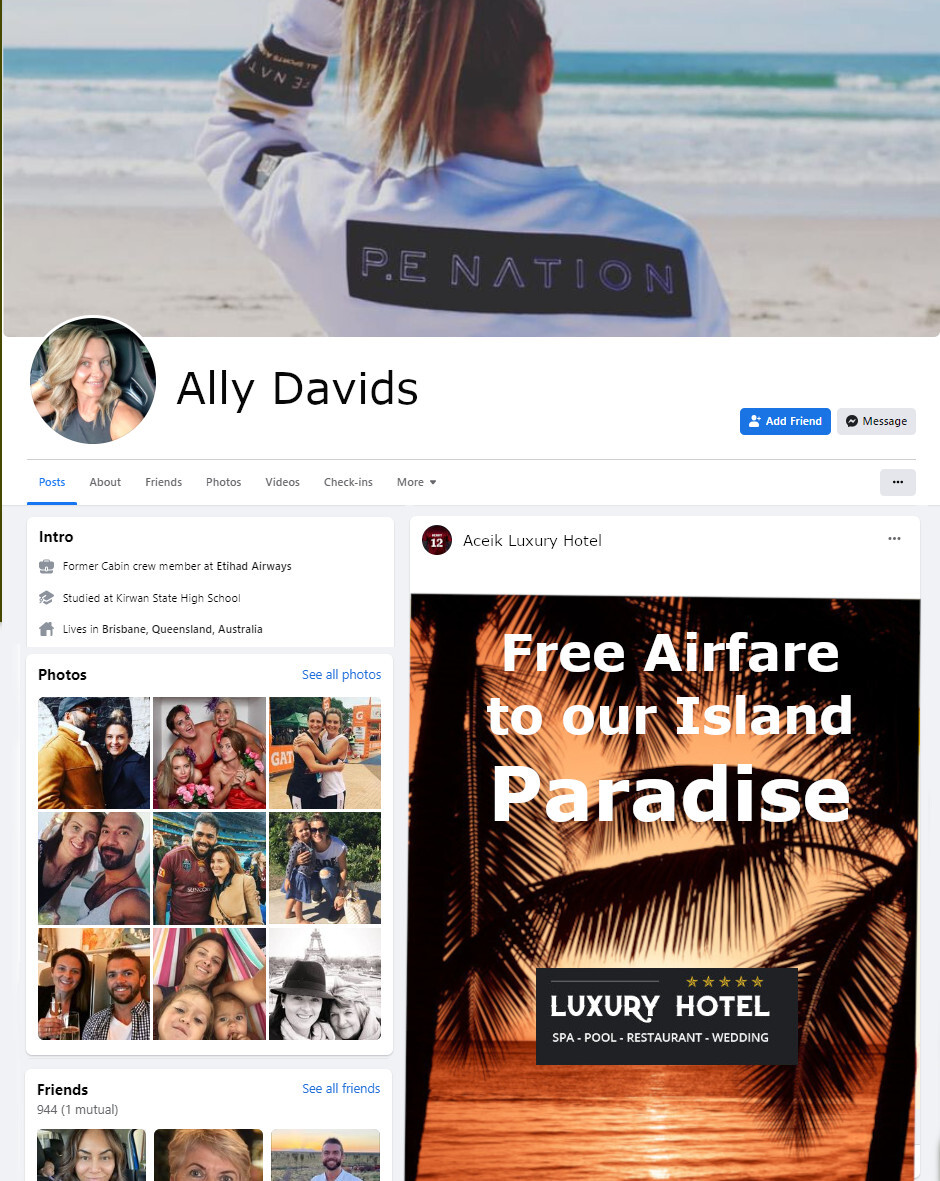
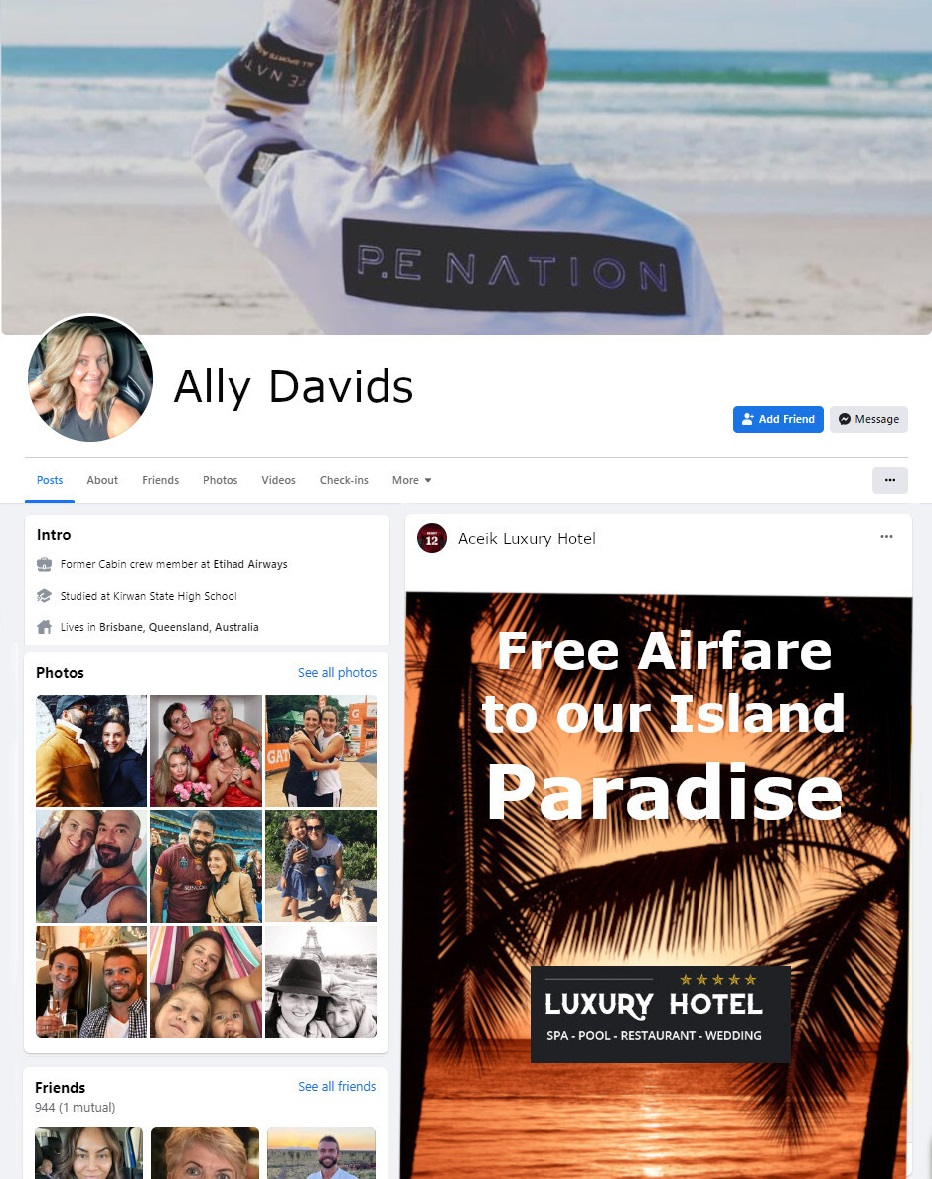
fix up the facebook page

diff --git a/JSS/xm-personalise-demo/src/pages/Facebook.tsx b/JSS/xm-personalise-demo/src/pages/Facebook.tsx
@@ -16,15 +16,17 @@ const FacebookPage: NextPage = () => (
 
             <link rel="stylesheet" href={`${publicUrl}/bootstrap-3.3.7/css/bootstrap.min.css`} />
         </Head>
-        <div className="container">
+
+        <div className="container" style={{ margin: '0 auto', background: '#eee', width: '100%' }}>
             <div className="row">
-                <div className="col-sm-12">
+                <div className="col-sm-12" style={{ textAlign: 'center' }}>
                     <a
                         href={`https://www.sugcon-headless-demo.xyz?utm_source=facebook&utm_medium=social&utm_campaign=island_competition`}
                     >
                         <img
                             src={`${publicUrl}/AllyDavid_DemoFacebook.jpg`}
                             className="mx-auto d-block"
+                            style={{ width: '1024px' }}
                         ></img>
                     </a>
                 </div>

diff --git a/JSS/xm-personalise-demo/src/lib/sitecore-cdp/sitecore-cdp.tsx b/JSS/xm-personalise-demo/src/lib/sitecore-cdp/sitecore-cdp.tsx
@@ -20,6 +20,7 @@ export function PushViewEvent(event: ViewEvent) {
     console.log('CDP browserId: ', browserID);
 
     const message = JSON.stringify(event);
+    console.log('campaign id (if present)', event.utm_campaign);
     const clientKey = process.env.SITECORE_BOXEVER_CLIENTKEY;
 
     const boxeverAPIEndpoint = `https://api-ap-southeast-2-production.boxever.com/v1.2/event/create.json?client_key=${clientKey}&message=${message}`;
